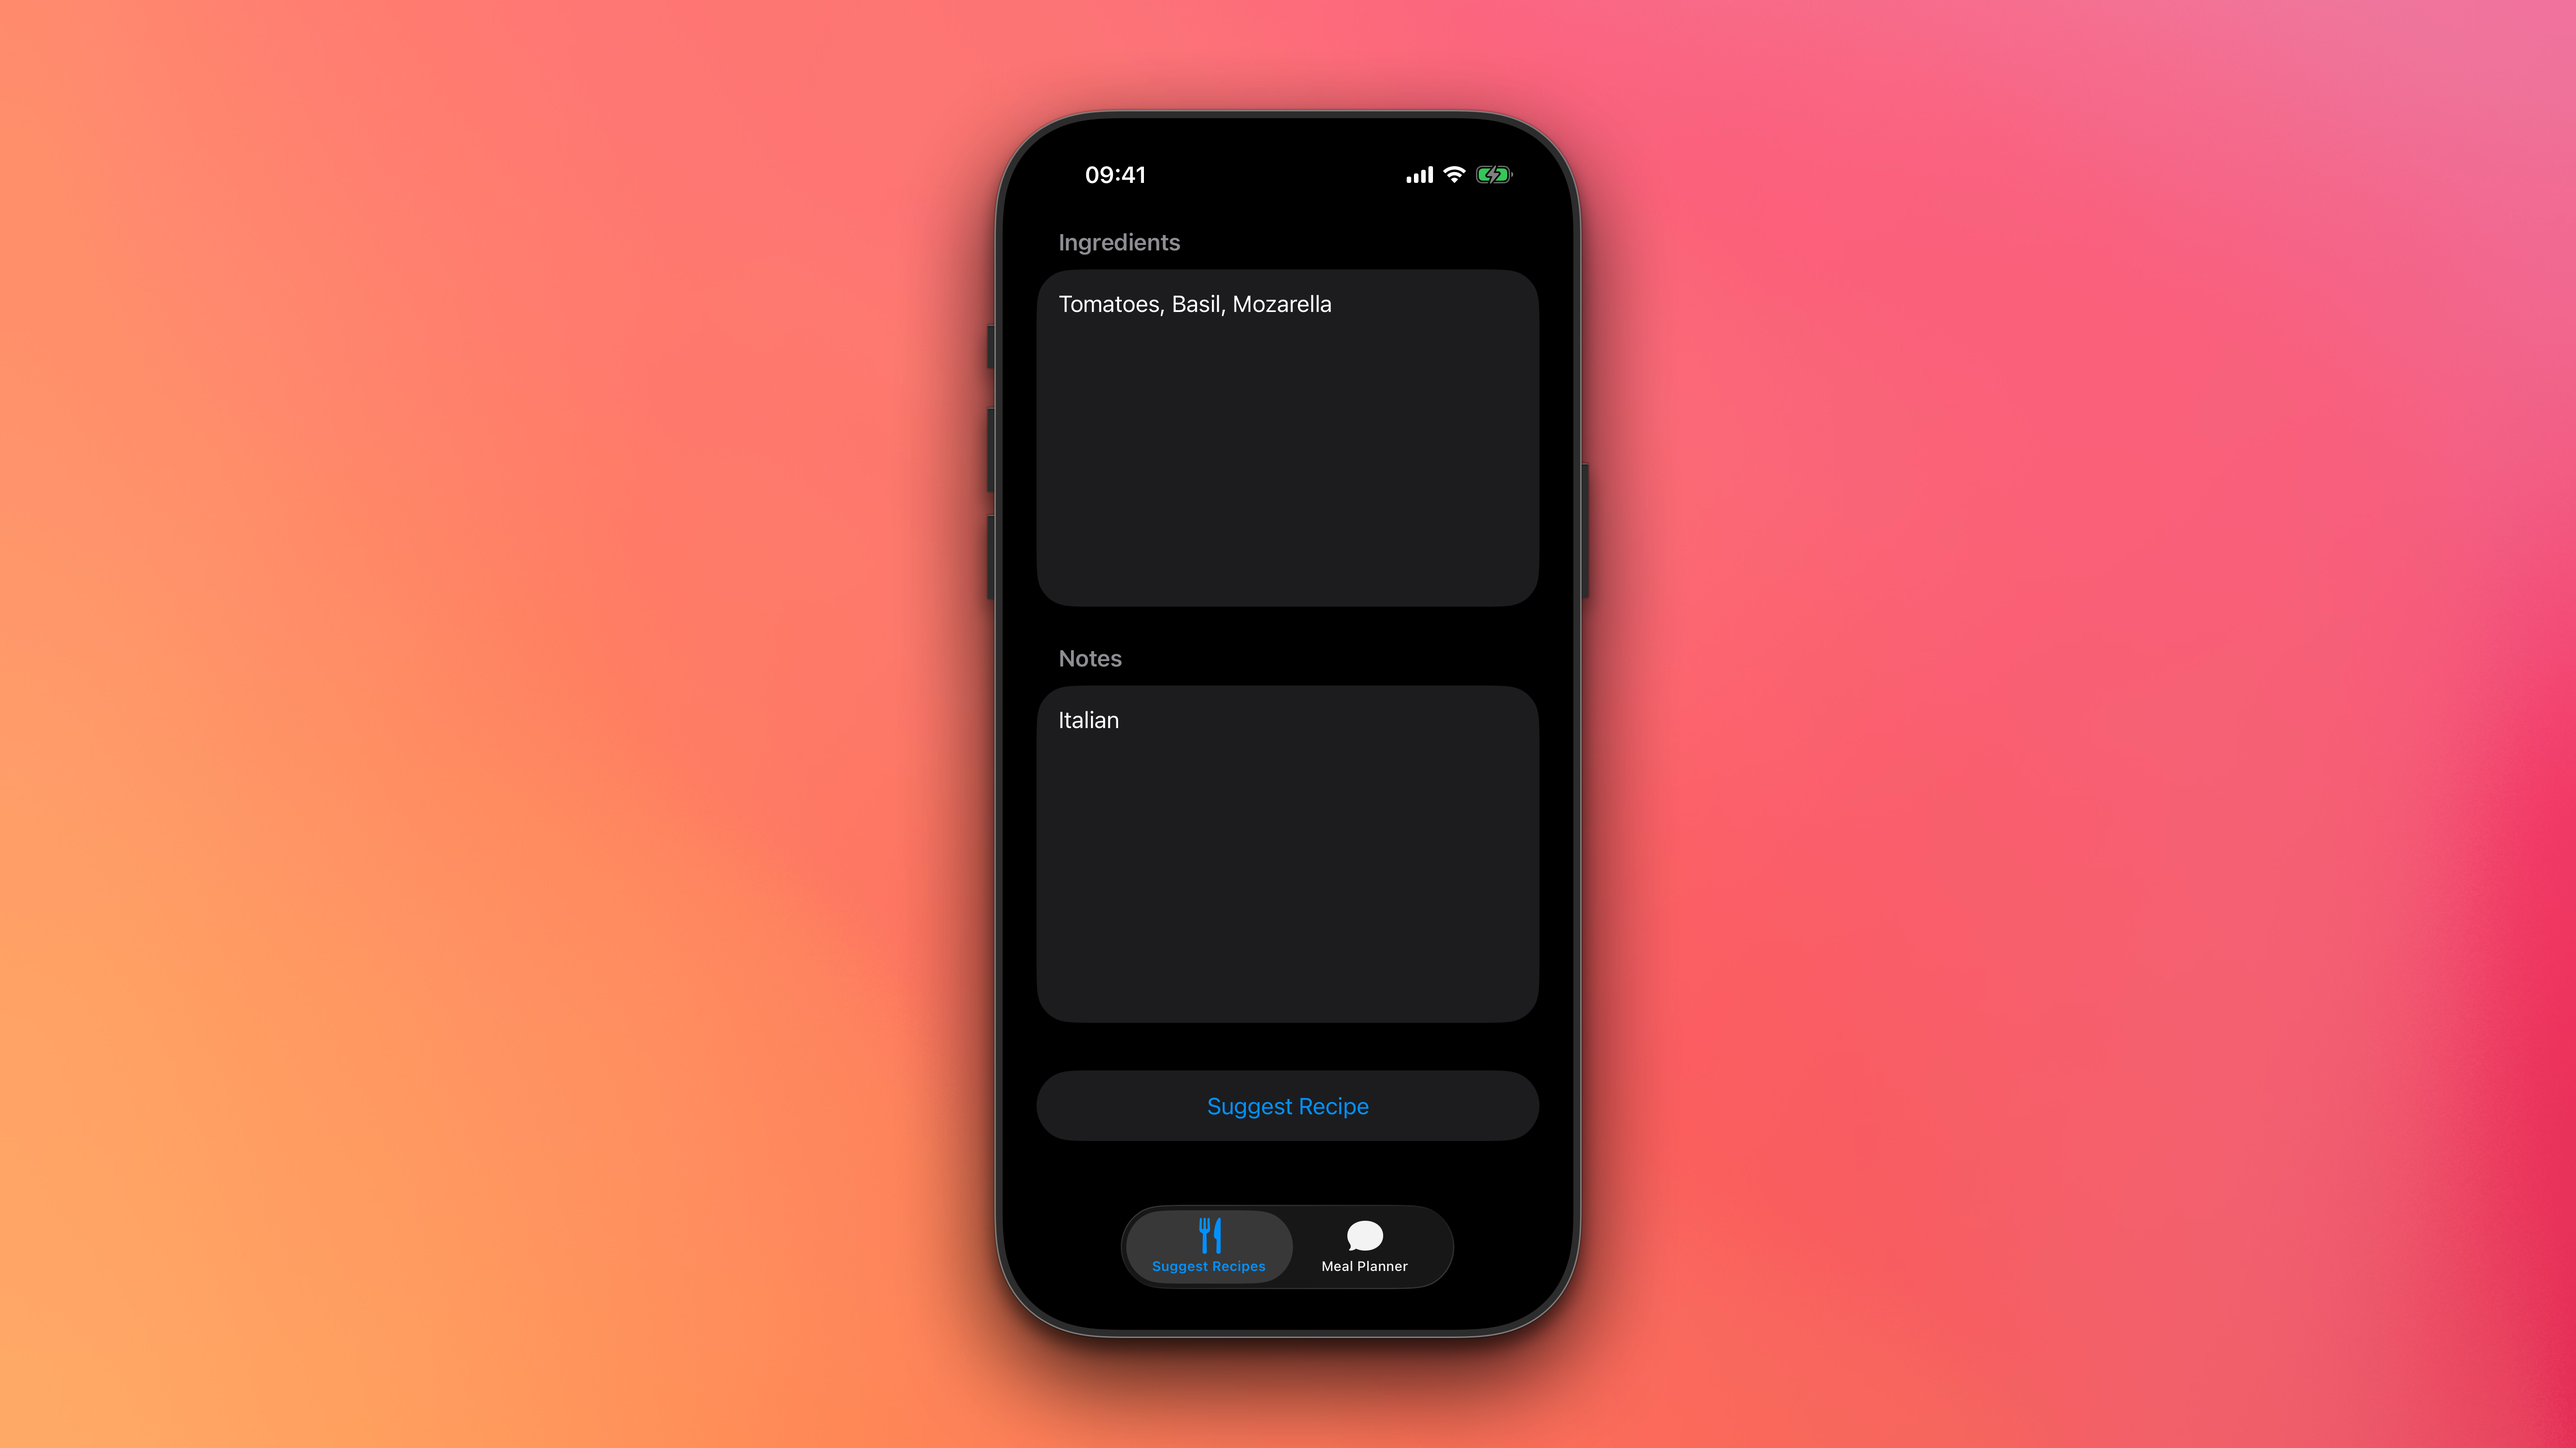
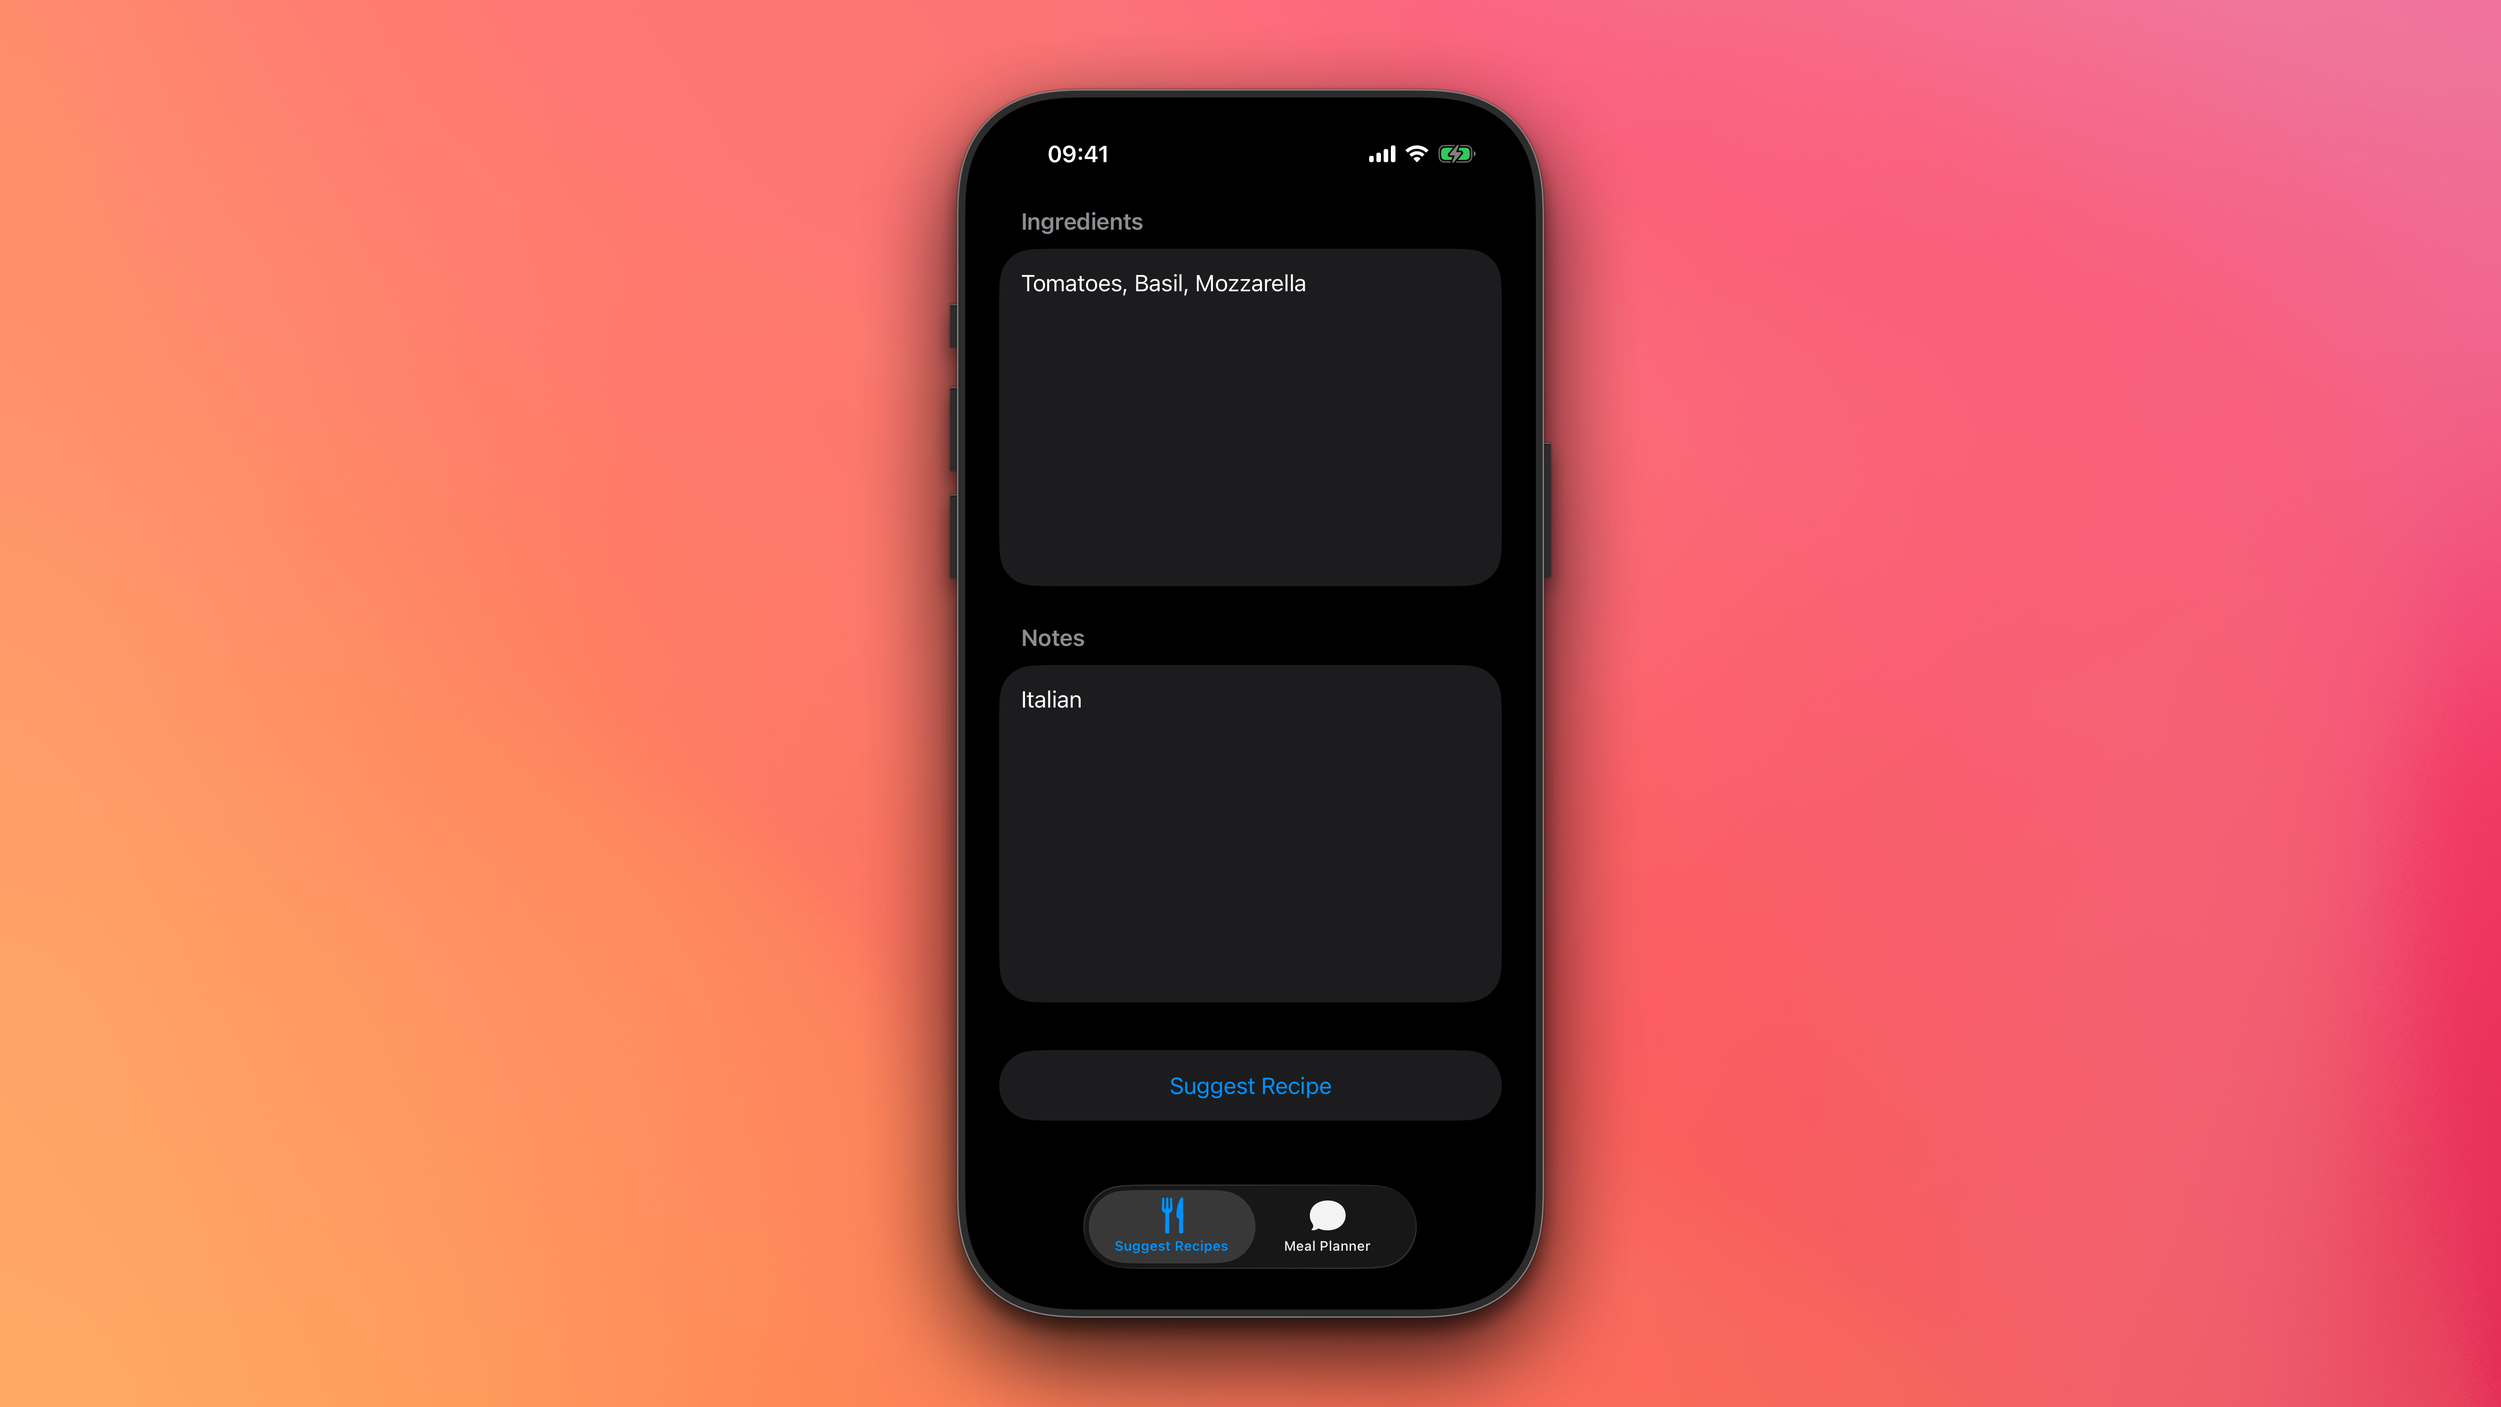
✏ Fix typo

Changed region(s): [[0.3738, 0.0625, 0.623, 0.9994]]

diff --git a/firebase-ai-friendly-meals/apple/FriendlyMeals/FriendlyMeals/Features/SuggestRecipe/SuggestRecipeViewModel.swift b/firebase-ai-friendly-meals/apple/FriendlyMeals/FriendlyMeals/Features/SuggestRecipe/SuggestRecipeViewModel.swift
@@ -24,7 +24,7 @@ class SuggestRecipeViewModel {
   var isGenerating = false
   var isPresentingRecipe = false
 
-  var ingredients = "Tomatoes, Basil, Mozarella"
+  var ingredients = "Tomatoes, Basil, Mozzarella"
   var notes = "Italian"
   var recipe = ""
   
